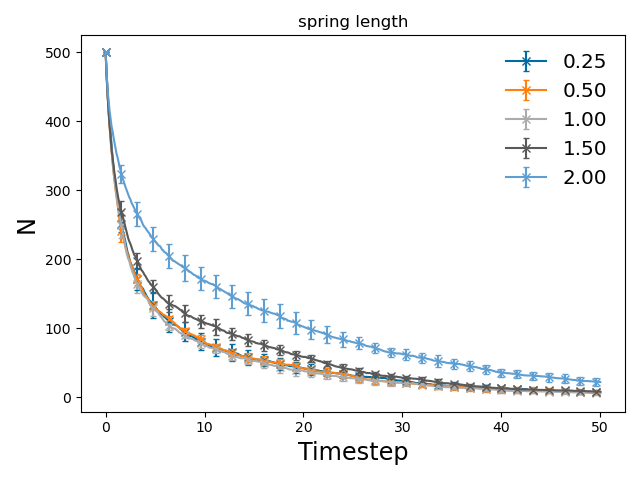
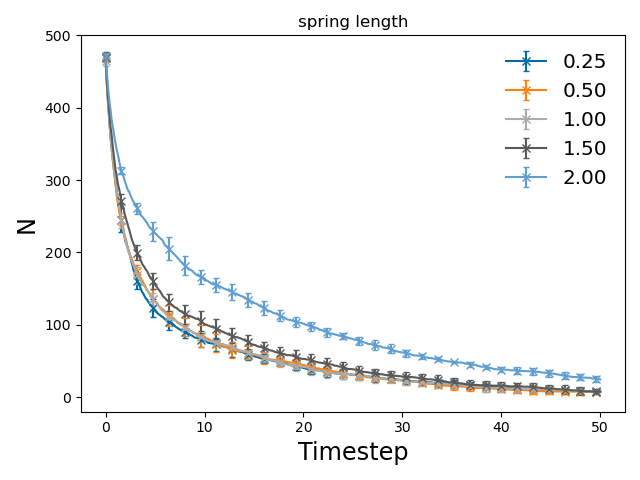
updates to lammps output that are tested, with some edits to protocol

diff --git a/hydrogels/trajectory/core.py b/hydrogels/trajectory/core.py
@@ -86,7 +86,7 @@ class ParticleFrame():
             comment=comment
         )
 
-class ParticleTrajectory(readdy.Trajectory):
+class ParticleTrajectory():
     """Class for storing positions of particles outputted from
     a simulation using ReaDDy"""
     def __init__(self, fname: Union[str, Path]):
@@ -119,6 +119,39 @@ class ParticleTrajectory(readdy.Trajectory):
     @property
     def frames(self) -> List[ParticleFrame]:
         return self._frames
+
+    def to_LAMMPS_dump(self, fname: Union[str, Path]):
+        """Writes the whole trajectory to LAMMPS dump
+        format files"""
+        for frame in self.frames:
+            write_LAMMPS_dump(
+                frame.dataframe,
+                str(Path(fname).absolute()) + f'.{frame.time}',
+                frame.time,
+                frame.box,
+            )
+
+    def to_LAMMPS_configuration(
+        self,
+        fname: Union[str, Path],
+        topology: "TopologyTrajectory",
+        masses: Iterable = None,
+        comment: str = None,
+    ):
+        """Writes the whole trajectory to LAMMPS configuration
+        format files"""
+        frames = self.frames
+        for i, topology_frame in enumerate(topology.frames):
+            frame = frames[i]
+            frame.assign_molecule(topology_frame)
+            write_LAMMPS_configuration(
+                frame.dataframe,
+                topology_frame.dataframe,
+                str(Path(fname).absolute()) + f'.{frame.time}',
+                self.box,
+                masses=masses,
+                comment=comment
+            )
 
 class TopologyFrame():
     def __init__(self, frame: List[TopologyRecord]):
@@ -195,6 +228,26 @@ class TopologyTrajectory():
     @property
     def frames(self) -> List[TopologyFrame]:
         return self._frames
+
+    def to_LAMMPS_configuration(
+        self,
+        fname: Union[str, Path],
+        particles: ParticleTrajectory,
+        masses: Iterable = None,
+        comment: str = None,
+    ):
+        frames = self.frames
+        for i, particles_frame in enumerate(particles.frames):
+            frame = frames[i]
+            particles_frame.assign_molecule(frame)
+            write_LAMMPS_configuration(
+                particles_frame.dataframe,
+                frame.dataframe,
+                str(Path(fname).absolute()) + f'.{particles_frame.time}',
+                particles_frame.box,
+                masses=masses,
+                comment=comment
+            )
 
 if __name__ == '__main__':
     import doctest

diff --git a/protocols/enzymatic-examples/monatomic/monatomic.py b/protocols/enzymatic-examples/monatomic/monatomic.py
@@ -23,6 +23,7 @@ def create_system(
     reaction_rate: float = 1.0,
     spring_constant: float = 5.0,
     spring_length: float = 1.0,
+    reaction: bool = True,
     **kwargs,
 ) -> readdy.ReactionDiffusionSystem:
     system = readdy.ReactionDiffusionSystem(
@@ -36,10 +37,11 @@ def create_system(
         system.add_species(name, diffusion_constant)
 
     ## add reaction:
-    system.reactions.add(
-        f'reaction: A + ({reaction_radius:.2f})E -> B + E',
-        rate=reaction_rate
-    )
+    if reaction:
+        system.reactions.add(
+            f'reaction: A + ({reaction_radius:.2f})E -> B + E',
+            rate=reaction_rate
+        )
 
     ## add potentials:
     for pair in [
@@ -78,12 +80,40 @@ def run_simulation(
     length: int = 10000,
     **kwargs
 ) -> Path:
-    system = create_system(**kwargs)
+    # run equilibration
+    logger.info('Running equilibration...')
+    system = create_system(**kwargs, reaction=False)
     output = Path(f'{name}.h5')
     if output.exists():
         output.unlink()
     simulation = system.simulation(output_file=str(output.absolute()))
     add_particles(simulation, **kwargs)
+    simulation.make_checkpoints(
+        stride=stride,
+        output_directory="checkpoints/",
+        max_n_saves=1
+    )
+    simulation.evaluate_topology_reactions = False
+    simulation.run(100, timestep)
+    logger.info('Done!')
+
+    # run proper simulaton
+    logger.info('Configuring simulation...')
+    system = create_system(**kwargs, reactions=False)
+    output = Path(f'{name}.h5')
+    if output.exists():
+        output.unlink()
+    simulation = system.simulation(output_file=str(output.absolute()))
+
+    # skip adding particles since these will be loaded
+    # add_particles(simulation, **kwargs)
+
+    simulation.load_particles_from_latest_checkpoint(
+        'checkpoints/'
+    )
+
+    logger.info('Loaded particles successfully from checkpoint')
+    # include observables
     simulation.observe.particles(stride)
     logger.info(f'Running simulation {name}...')
     simulation.record_trajectory(stride)

diff --git a/test/trajectory/test_core.py b/test/trajectory/test_core.py
@@ -37,8 +37,29 @@ def test_TopologyTrajectory():
     traj.time
     traj.frames
 
+def test_LAMMPS_output():
+    topology = TopologyTrajectory(H5)
+    particles = ParticleTrajectory(H5)
+
+    dump = FOLDER / 'dump'
+    particles.to_LAMMPS_dump(dump)
+    for target in FOLDER.glob('dump.*'):
+        target.unlink()
+
+    conf = FOLDER / 'conf'
+    particles.to_LAMMPS_configuration(conf, topology)
+    for target in FOLDER.glob('conf.*'):
+        target.unlink()
+
+    topology.to_LAMMPS_configuration(conf, particles)
+    for target in FOLDER.glob('conf.*'):
+        target.unlink()
+
+    return
+
 if __name__ == '__main__':
     test_ParticleFrame()
     test_ParticleTrajectory()
     test_TopologyFrame()
     test_TopologyTrajectory()
+    test_LAMMPS_output()
